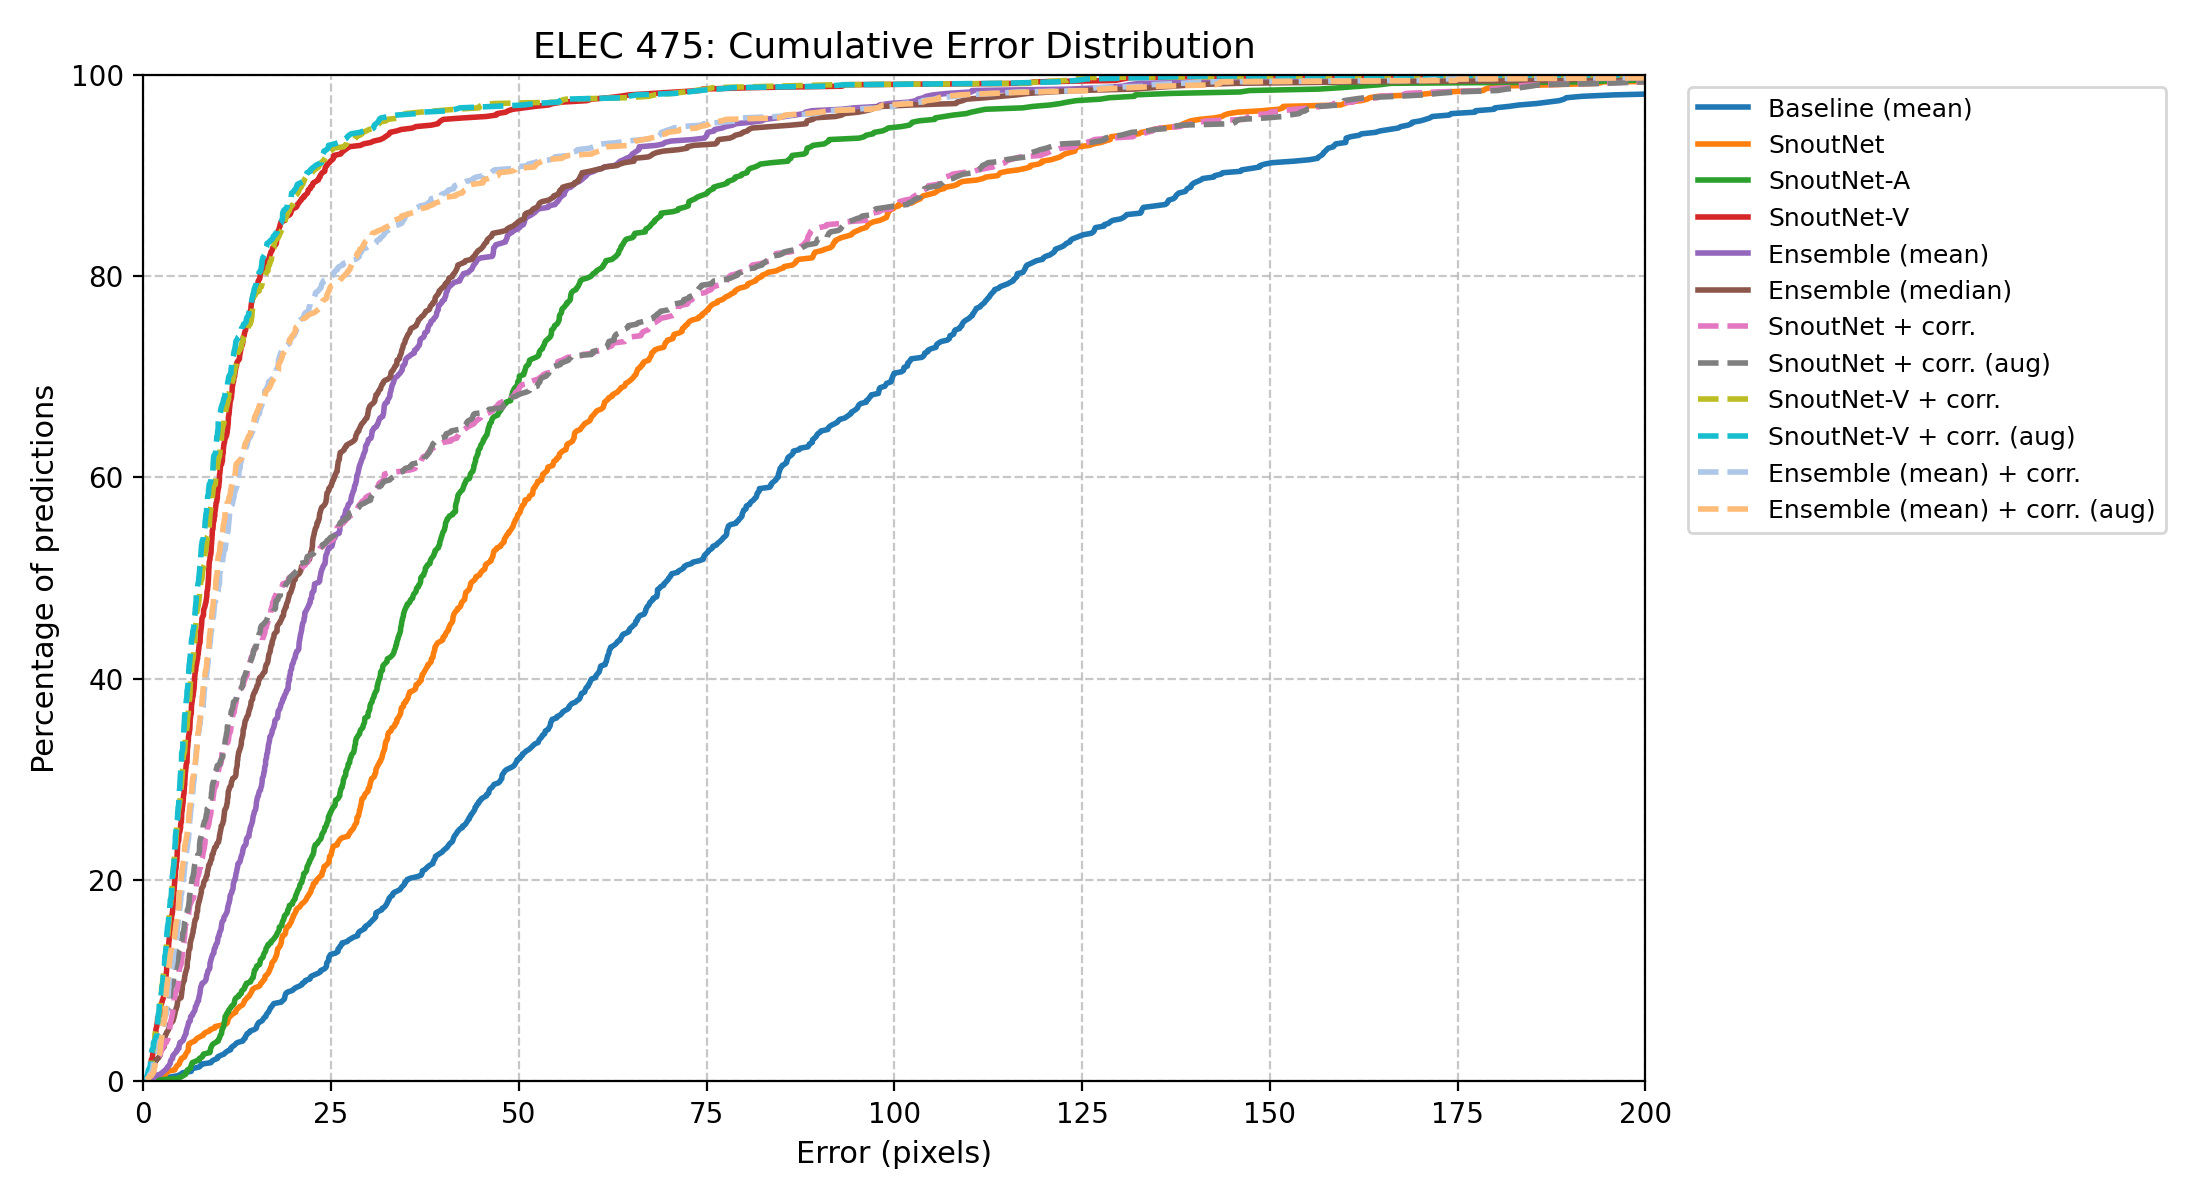
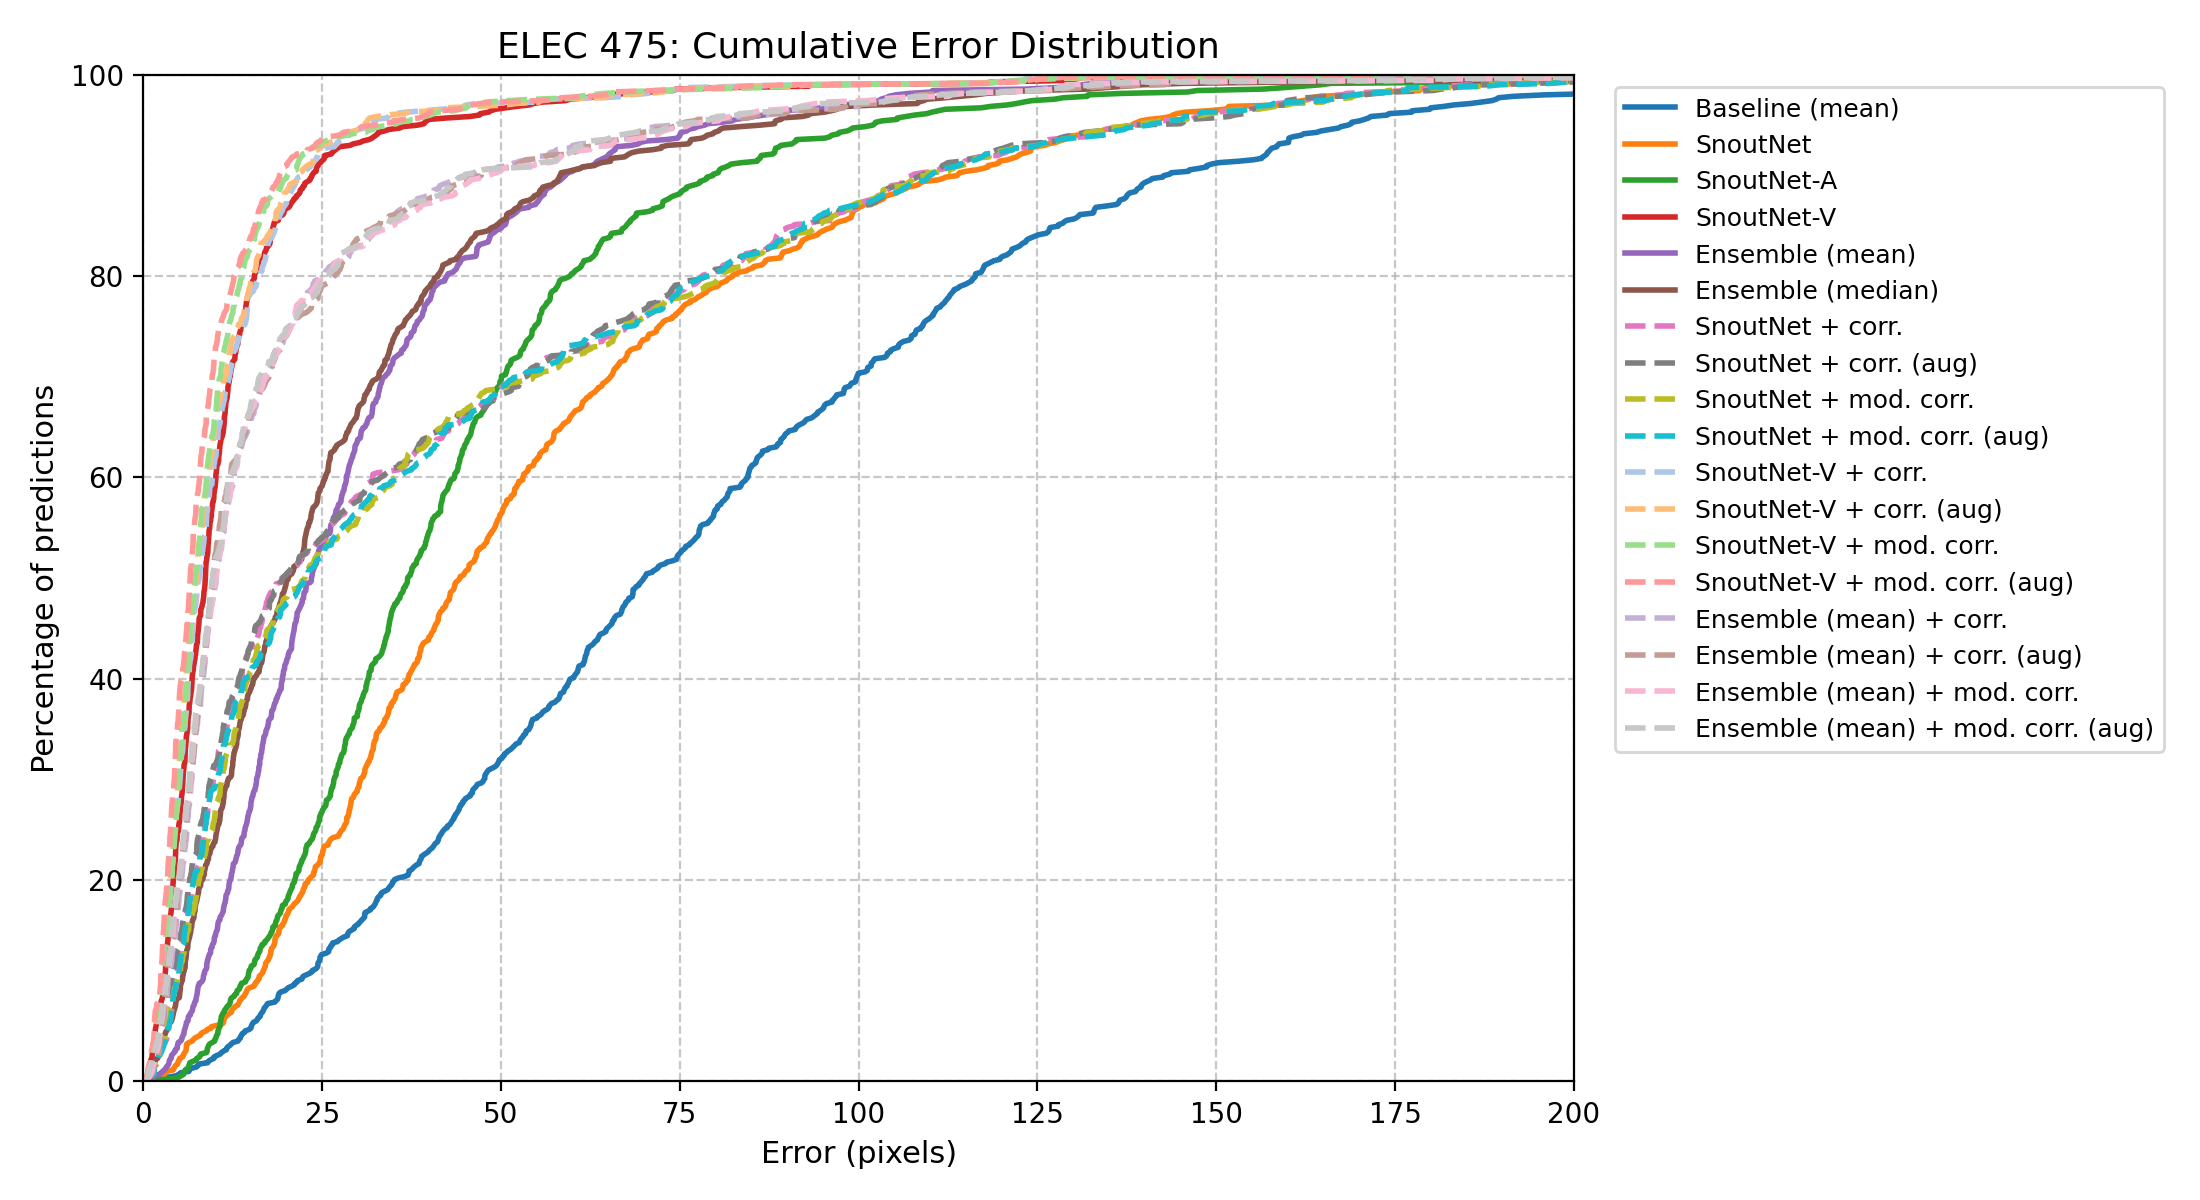
Lab 3: Complete all tasks before writing

diff --git a/Assignments/lab3/lab3_template/models/correction.py b/Assignments/lab3/lab3_template/models/correction.py
@@ -65,19 +65,48 @@ class CorrectionNetModified(nn.Module):
     """
     Your modified CorrectionNet (Post-Lab Step 5). Same input (B, 3, 64, 64) and
     output (B, 2) normalized offsets as CorrectionNet.
+
+    1. CoordConv: add normalized coordinates of patch to input so the network 
+        knows where each pixel sits in the patch.
+    2. Two convolutions per block (VGG style) before pooling: more capacity
+         at each resolution.
+    3. Dropout(p = 0.3) in the head to reduce overfitting in the 2,048 -> 256 layer.
     """
     def __init__(self):
         super(CorrectionNetModified, self).__init__()
-        # ======================================================================
-        # TODO [POST-LAB STEP 5]: Implement Your Modified Correction Model
-        # ======================================================================
-        pass
+        def block(cin, cout):
+            return nn.Sequential(
+                nn.Conv2d(cin, cout, kernel_size=3, padding=1),
+                nn.BatchNorm2d(cout),
+                nn.ReLU(inplace=True),
+                nn.Conv2d(cout, cout, kernel_size=3, padding=1),
+                nn.BatchNorm2d(cout),
+                nn.ReLU(inplace=True),
+                nn.MaxPool2d(kernel_size=2, stride=2),
+            )
+        
+        self.features = nn.Sequential(
+            block(5, 32),      # (B, 32, 32, 32)   5 = RGB + x + y
+            block(32, 64),     # (B, 64, 16, 16)
+            block(64, 128),    # (B, 128, 8, 8)
+            block(128, 128),   # (B, 128, 4, 4)
+        )
+        self.fc1 = nn.Linear(128 * 4 * 4, 256)
+        self.dropout = nn.Dropout(0.3)
+        self.fc2 = nn.Linear(256, 2)
 
     def forward(self, x: torch.Tensor) -> torch.Tensor:
-        # ======================================================================
-        # TODO [POST-LAB STEP 5]: Implement the Forward Pass
-        # ======================================================================
-        pass
+        B, _, H, W = x.shape
+        ys = torch.linspace(-1, 1, H, device=x.device, dtype=x.dtype)
+        xs = torch.linspace(-1, 1, W, device=x.device, dtype=x.dtype)
+        grid_y, grid_x = torch.meshgrid(ys, xs, indexing="ij")
+        coords = torch.stack([grid_x, grid_y]).unsqueeze(0).expand(B, -1, -1, -1)
+        x = torch.cat([x, coords], dim=1)          # (B, 5, 64, 64)
+
+        x = self.features(x)                       # (B, 128, 4, 4)
+        x = torch.flatten(x, start_dim=1)          # (B, 2048)
+        x = self.dropout(F.relu(self.fc1(x)))      # (B, 256)
+        return self.fc2(x)                         # (B, 2), no activation
 
 
 if __name__ == "__main__":
